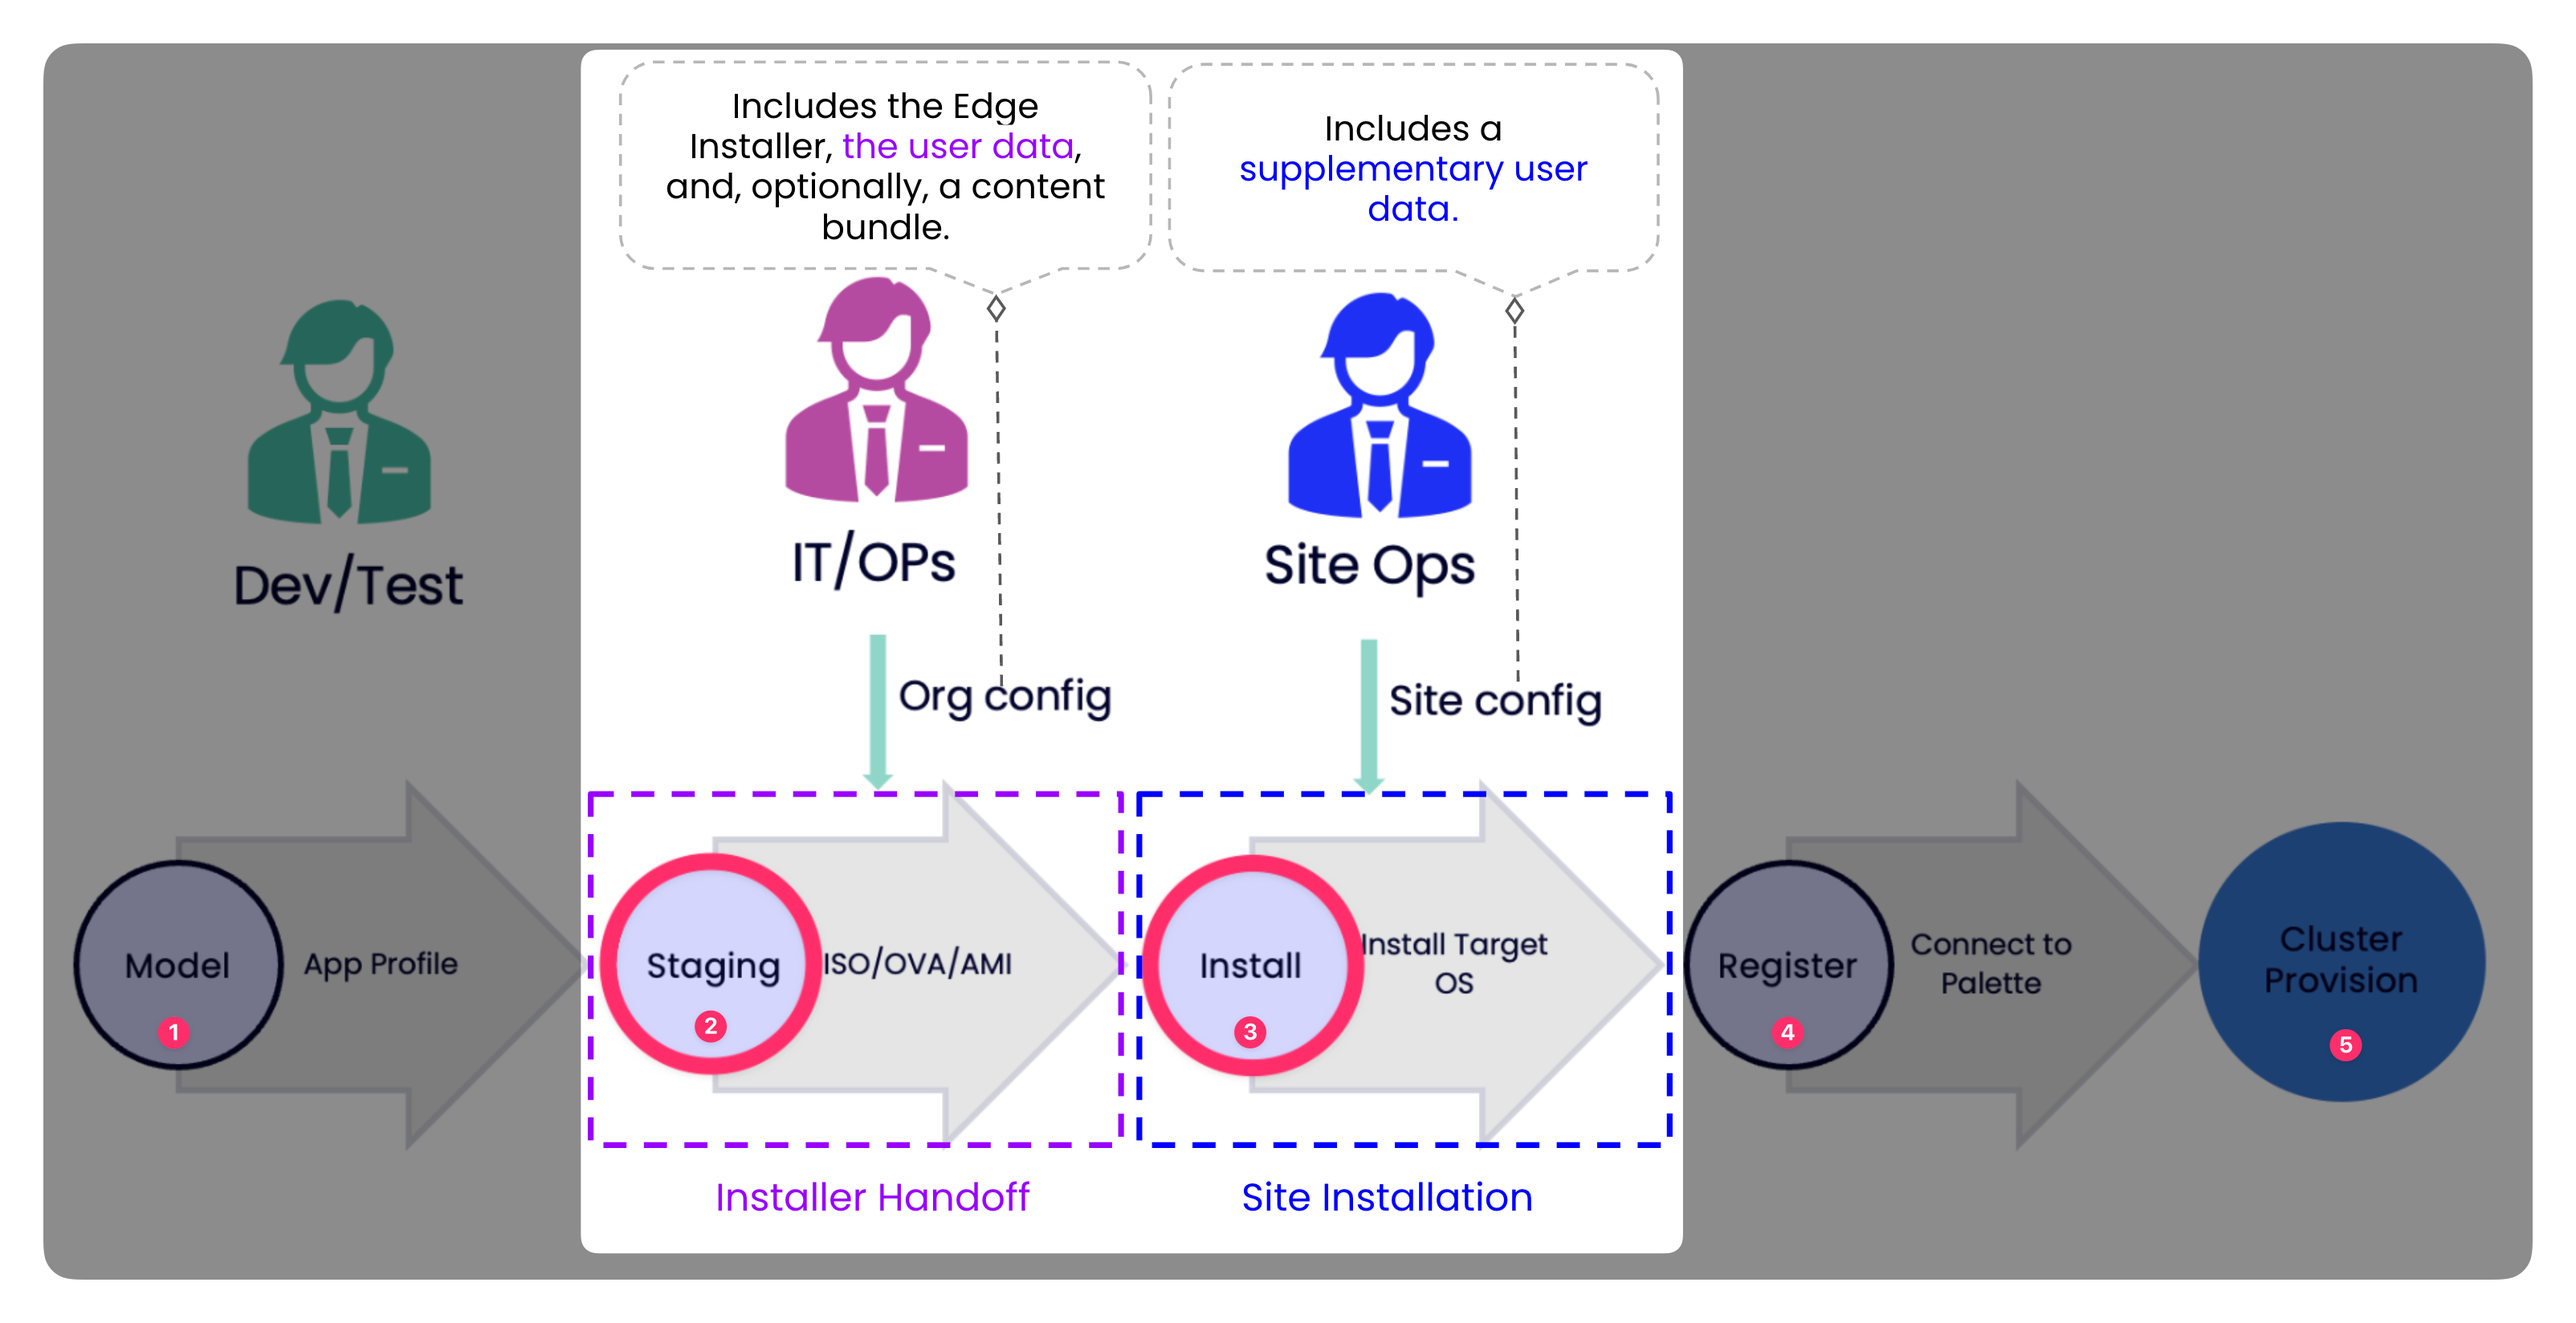
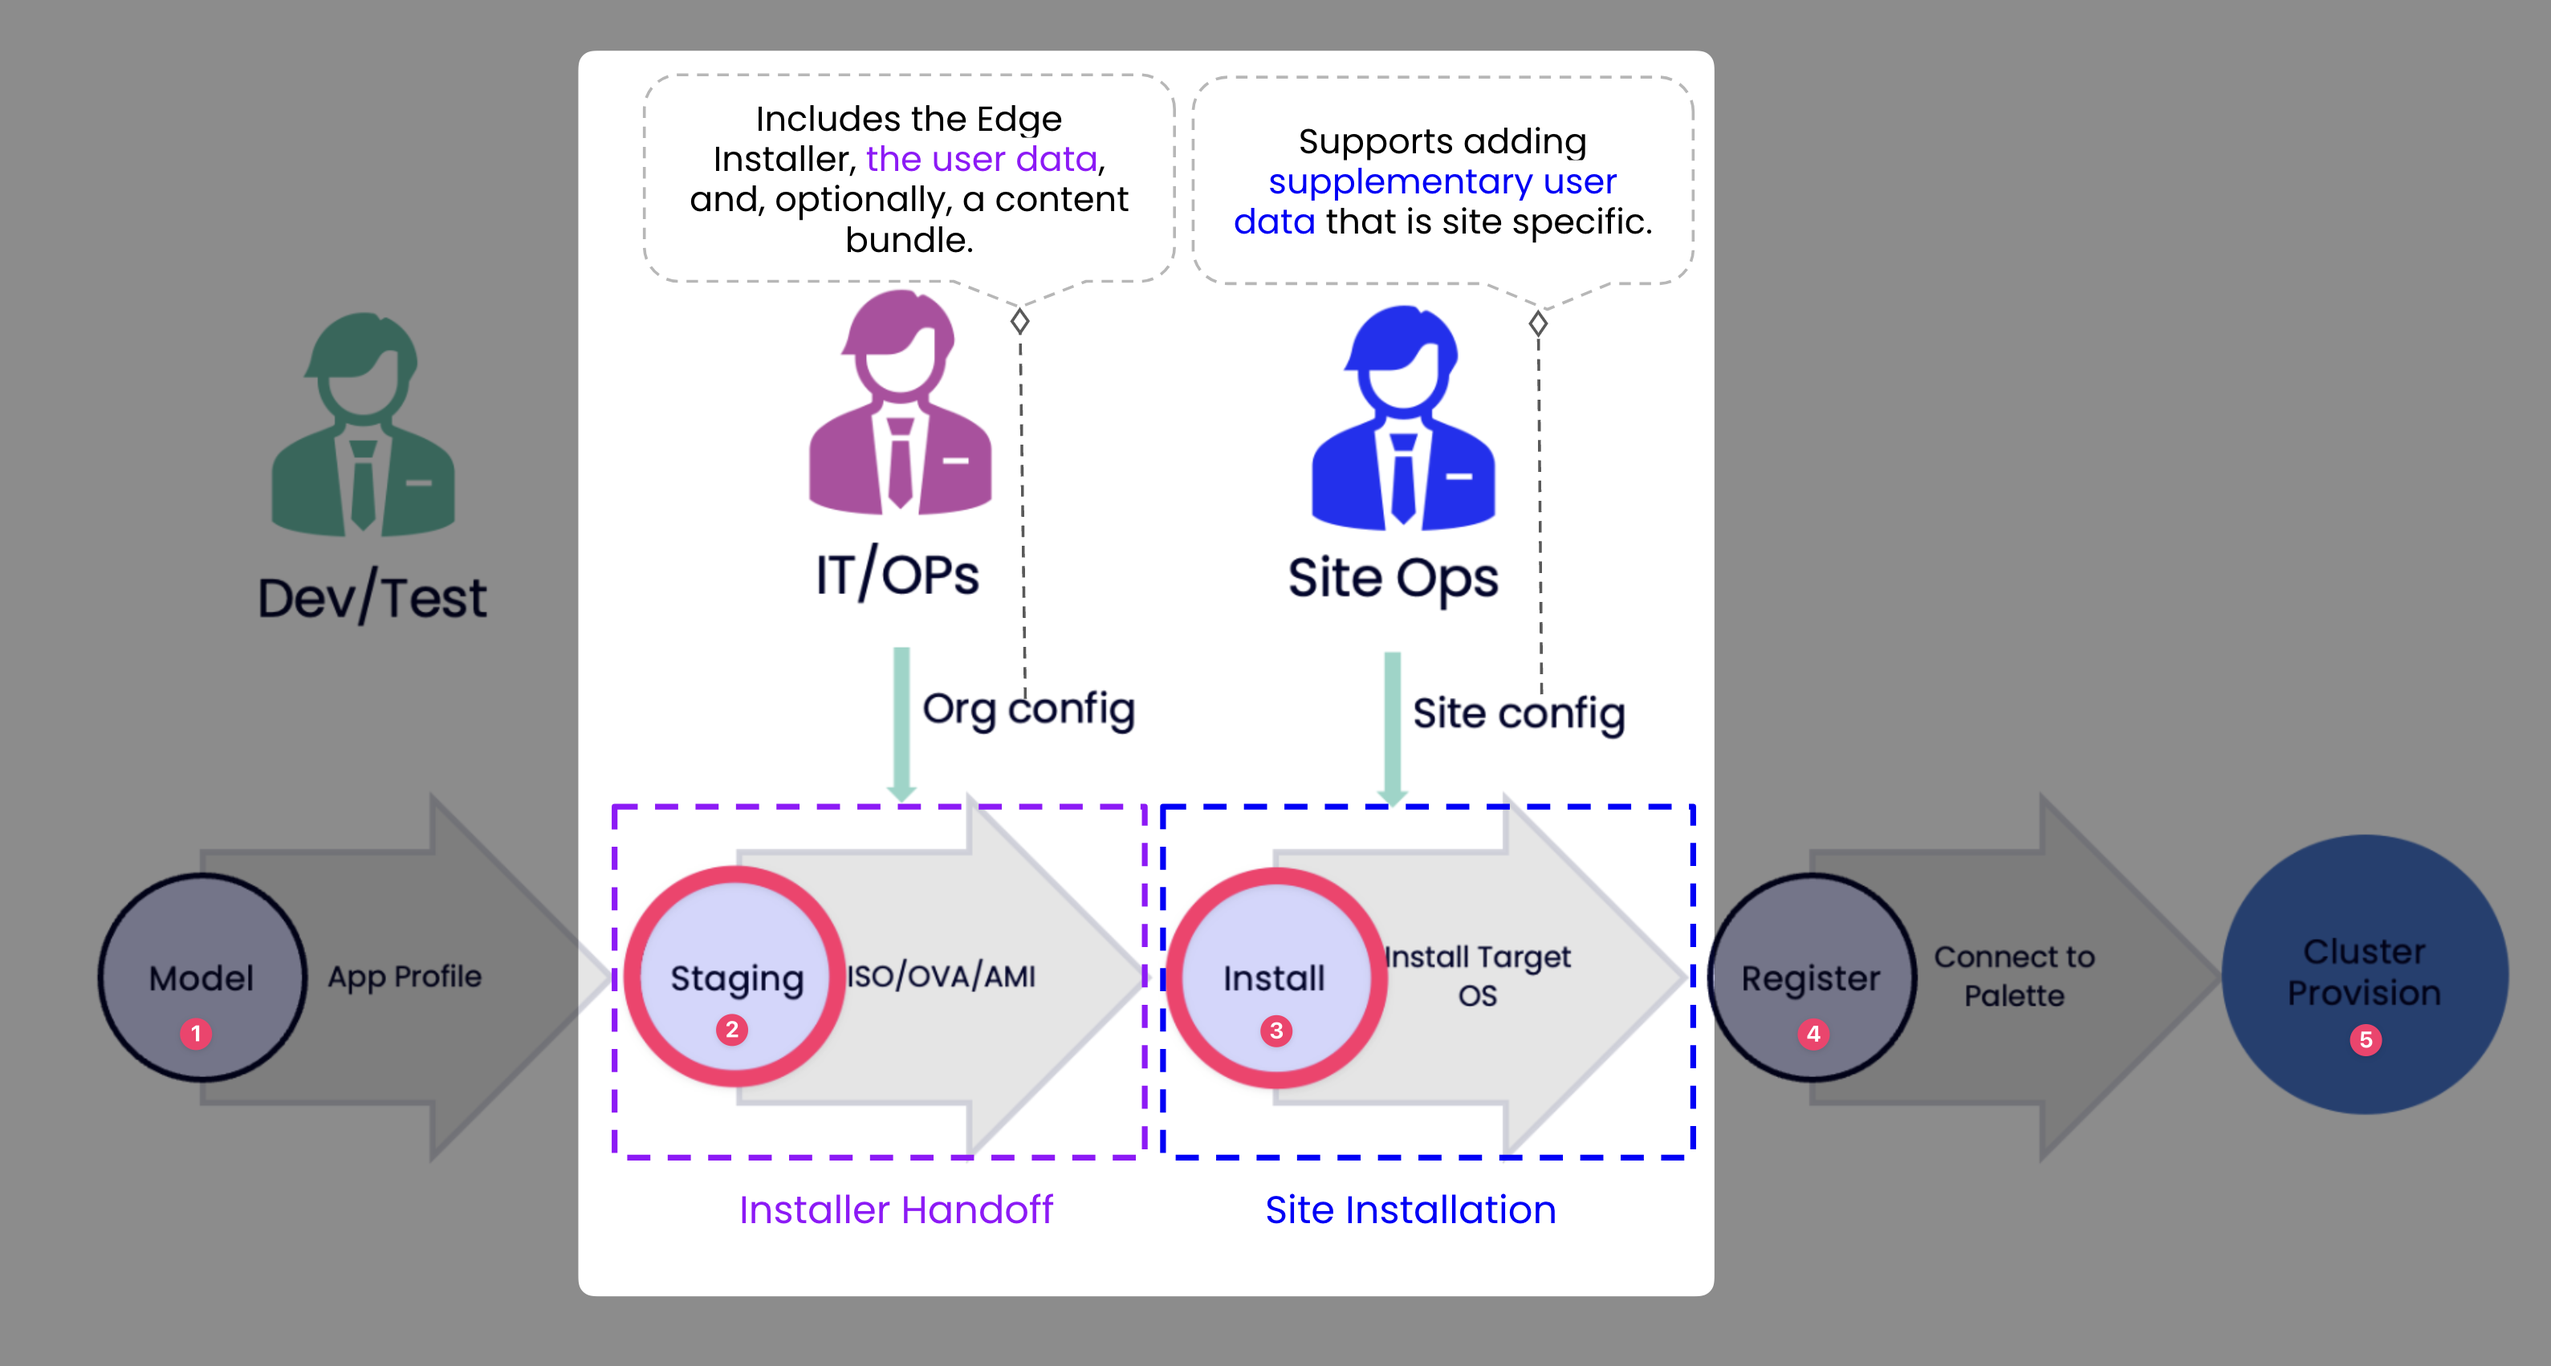
docs: update the diagram and language cleanup. Remove USB keyword.

diff --git a/content/docs/04-clusters/03-edge/02-edge-configuration/30-cloud-init.md b/content/docs/04-clusters/03-edge/02-edge-configuration/30-cloud-init.md
@@ -61,26 +61,25 @@ You may ask yourself where to use cloud-init stages, as both the Edge Installer 
 
 # Sensitive Information in the User Data Stages
 
-Suppose you must add sensitive information, such as credentials, in your user data configuration file. In the Edge deployment lifecycle, you have two opportunities to apply user data to edge hosts. The first is during the staging phase, where you add the Edge installer to the Edge host. The second opportunity is during the site installation phase, where you can provide additional user-data configurations if needed. The diagram below highlights the two mentioned stages in the Edge lifecycle.  
+Suppose you must add sensitive information, such as credentials, in your user data configuration file. In the Edge deployment lifecycle, you have two opportunities to apply user data to edge hosts. The first is during the staging phase, where you add the Edge installer to the Edge host. The second opportunity is during the site installation phase, where you can provide supplementary user-data configurations if needed. The diagram below highlights the two mentioned phases in the Edge lifecycle.  
 
 ![A diagram highlighting the two stages in the edge deployment lifecycle where you can apply user data.](/edge_edge-configuration_cloud-init_user-data.png)
 <br />
 
 <br />
 
-- **Staging Step** - In the staging step, you prepare your edge hosts using the organization-level configurations. The organization-level configurations include the Edge Installer, the user data, and, optionally, a content bundle. 
-You bundle the organization-level configurations into an ISO and prepare a bootable USB flash drive. You use the USB flash drive to boot up the edge host and install the configurations. The entire USB flash drive data is copied to the edge host during the installation. 
+- **Staging Phase** - In the staging phase, you prepare your edge hosts using the organization-level configurations. The configurations include the Edge Installer, the user data, and, optionally, a content bundle. You boot the edge hosts using the Edge Installer and apply the configurations. All the configurations, including the user data, are copied to the edge host during installation. 
 
-  Once the edge host is prepared with the initial installation, you remove the USB flash drive and ship your devices to the site for installation. This step is also called the *installer handoff* step. Refer to the [Prepare Edge Host
+  Once the edge hosts are prepared with the initial installation, you ship your devices to the site for installation. This step is also called the *installer handoff* step. Refer to the [Prepare Edge Host
 ](/clusters/edge/site-deployment/stage#prepareedgehost) guide to learn more about driving the installer handoff step.
 
 
-- **Site Installation Step** - In the site installation step, you use supplementary user data to apply site-specific configurations to the edge devices. In this step, you create another USB flash drive using an ISO that contains your additional user data. You use the USB flash drive to install the site-specific configurations. The entire USB flash drive data is copied to the edge host during the installation unless you follow the specific naming convention for your user data stages as described below. 
+- **Site Installation Phase** - In the site installation phase, you use supplementary user data to apply site-specific configurations to the edge devices. The user data is copied to the edge host during the installation unless you follow the specific naming convention for your user data stages as described below. 
 
- The [Perform Site Install](/clusters/edge/site-deployment/site-installation) guide describes the site installation process in detail.  If you need to apply a supplementary user-data configuration file,  refer to the [Multiple User Data Use Case](/clusters/edge/edgeforge-workflow/prepare-user-data#multipleuserdatausecase) guide to learn more.
+ The [Perform Site Install](/clusters/edge/site-deployment/site-installation) guide describes the site installation process in detail. If you need to apply a supplementary user-data configuration file,  refer to the [Multiple User Data Use Case](/clusters/edge/edgeforge-workflow/prepare-user-data#multipleuserdatausecase) guide to learn more.
 
 
-In both steps mentioned above,  the Edge Installer copies the user data configuration file provided to the **/run/stylus/userdata** file or the **/oem/userdata** file on the edge hosts. If you want to prevent some user data stages from getting copied to the edge host's storage, you can use a specific naming convention to disable the default copy behavior. However, be aware that different persistence behaviors apply depending on which stage of the Edge deployment life cycle you provide sensitive data in the user data configuration file. Refer to the [Sensitive Information During the Site Installation](#sensitiveinformationduringthesiteinstallation) section below to learn more.
+In both steps mentioned above,  the Edge Installer copies the user data configuration file provided to the **/run/stylus/userdata** file or the **/oem/userdata** file on the edge hosts. If you want to prevent some user data stages from getting copied to the edge host's storage, you can use a specific naming convention to disable the default copy behavior. However, be aware that different persistence behaviors apply depending on which stage of the Edge deployment life cycle you provide sensitive data in the user data configuration file. Refer to the [Sensitive Information in the Site Installation](#sensitiveinformationduringthesiteinstallation) section below to learn more.
 <br />
 
 ## Sensitive Information in the Installer Handoff
@@ -88,19 +87,19 @@ In both steps mentioned above,  the Edge Installer copies the user data configur
 <br />
 <WarningBox>
 
-We do not recommend inserting sensitive information in the user data configuration file provided in the installer handoff phase. Use a supplementary user data configuration file and apply it at the Site Installation phase. 
+We do not recommend inserting sensitive information in the user data configuration file provided in the installer handoff phase. Use a supplementary user data configuration file and apply it at the site installation phase. 
 
 </WarningBox>
 <br />
 
-In the installer handoff step, the Edge Installer copies and persists *all* your user data stages into the configuration files on the edge hosts. Copying sensitive information to the edge hosts may pose security risks. Therefore, we recommend you avoid inserting sensitive information in the user data configuration file provided in the installer handoff phase. Use a supplementary user data configuration file and apply it at the Site Installation phase.
+In the installer handoff step, the Edge Installer copies and persists *all* your user data stages into the configuration files on the edge hosts. Copying sensitive information to the edge hosts may pose security risks. Therefore, we recommend you avoid inserting sensitive information in the user data configuration file provided in the installer handoff phase. Use a supplementary user data configuration file and apply it at the site installation phase.
 
 
 <br />
 
 ## Sensitive Information in the Site Installation
 
-If you want to use sensitive information, such as credentials for patching the OS on your edge hosts, in any user data stage during the site installation step. In such scenarios, you must use the `skip-copy-[string]` naming convention for your user data stages. Replace the `[string]` placeholder with any meaningful string per your requirements. The Edge Installer will skip copying the stages whose name matches the regular expression `skip-copy-*` to the edge host. The stages will execute as long as the USB flash drive is mounted to the edge hosts.  
+If you want to use sensitive information, such as credentials for patching the OS on your edge hosts, in any user data stage during the site installation phase. In such scenarios, you must use the `skip-copy-[string]` naming convention for your user data stages. Replace the `[string]` placeholder with any meaningful string per your requirements. The Edge Installer will skip copying the stages whose name matches the regular expression `skip-copy-*` to the edge host. The stages will execute as long as the USB flash drive is mounted to the edge hosts.  
 
 For example, the `skip-copy-subscribe` stage below follows the `skip-copy-[string]` naming convention. Therefore, the Edge Installer will skip copying the stage to the **/run/stylus/userdata** file or the **/oem/userdata** file on the edge host. However, the stage will execute as long as you have plugged in the USB flash drive containing your user data. You must unmount the USB flash drive from the edge device after the device registers with Palette and before you deploy a Kubernetes cluster on the device. 
 <br />
